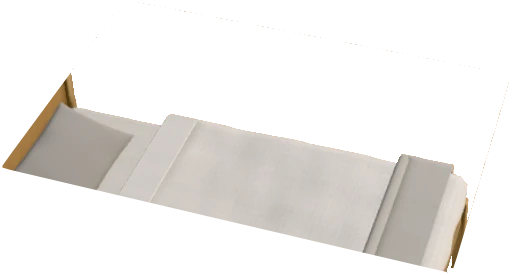
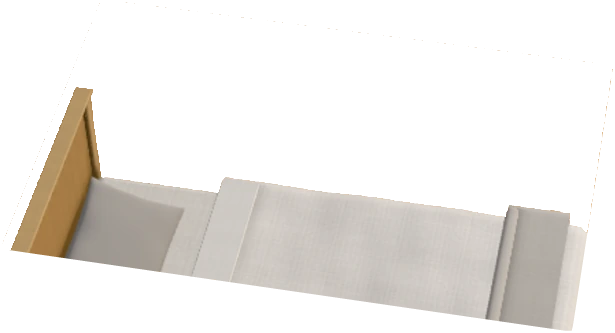
Hero demo: natural lens, sharp 2400px renders, a lived-in room
The last version used a wide lens to fit three walls in, which warped the room, and the layers were rendered
without antialiasing and recompressed at quality 80, so edges looked jagged and soft. Now:
- The studio's own 36° lens from just right of centre, with the door, back and window walls kept up for the
  render, so the room reads like a real photo of a model room and fits the stage with room for the side cards.
- Every layer rendered at 4000px and downsampled to 2400px (supersampled edges), saved as WebP at q90/92, and
  served by next/image at quality 90 (added to images.qualities).
- The template's own touches stay in (plant and folded towels on the dresser, the desk riser), plus the mini
  fridge from 'Who brings what'. Bean bag, rug, tags, dimensions and cursors re-placed for the new camera.

Claude-Session: https://claude.ai/code/session_01S6YCHmBKmE3hFcSRhUhYcX

Changed region(s): [[0.0, 0.2618, 0.9688, 1.0]]

diff --git a/components/home/Hero.module.css b/components/home/Hero.module.css
@@ -240,9 +240,9 @@
 .ly { position: absolute; pointer-events: none; user-select: none; }
 .ly img { object-fit: fill; }
 .lyRoom { inset: 0; }
-.lyRug { left: 38.450%; top: 53.173%; width: 19.550%; height: 18.611%; animation: sprRug 12s linear infinite; }
-.lyOcc { left: 33.450%; top: 51.372%; width: 25.600%; height: 23.585%; }
-.lyBean { left: 49.850%; top: 40.995%; width: 11.450%; height: 14.837%; animation: sprBean 12s linear infinite; }
+.lyRug { left: 38.500%; top: 51.357%; width: 19.417%; height: 18.929%; animation: sprRug 12s linear infinite; }
+.lyOcc { left: 33.375%; top: 49.643%; width: 25.625%; height: 23.786%; }
+.lyBean { left: 48.208%; top: 36.214%; width: 12.625%; height: 16.143%; animation: sprBean 12s linear infinite; }
 .dims { position: absolute; inset: 0; width: 100%; height: 100%; overflow: visible; pointer-events: none; }
 .dims line { stroke: var(--ds-blue); stroke-linecap: round; vector-effect: non-scaling-stroke; }
 .dl { stroke-width: 1.75; stroke-dasharray: 1; stroke-dashoffset: 0; }
@@ -303,8 +303,8 @@
   box-shadow: 0.25em 0.25em 0 var(--ds-ink);
   opacity: 0;
 }
-.curC { transform: translate(56.08%, 46.3%); animation: curC 12s linear infinite; }
-.curJ { transform: translate(48.59%, 57.6%); animation: curJ 12s linear infinite; }
+.curC { transform: translate(55.3%, 43.3%); animation: curC 12s linear infinite; }
+.curJ { transform: translate(48.52%, 58%); animation: curJ 12s linear infinite; }
 .curC .cname { background: var(--ds-magenta); }
 .curJ .cname { background: var(--ds-blue); }
 .curC .arrow { animation: pressC 12s infinite; }
@@ -383,8 +383,8 @@
 .heroCap .ft { color: var(--ds-ink); font-weight: 750; }
 
 /* ---------- The 12 s loop. Every element runs on the same clock. ---------- */
-@keyframes curC{0%{transform:translate(64%,76%);animation-timing-function:cubic-bezier(.65,0,.35,1)}4.167%{transform:translate(64%,76%);animation-timing-function:cubic-bezier(.65,0,.35,1)}10.417%{transform:translate(50.88%,55.92%)}11.25%{transform:translate(50.88%,55.92%);animation-timing-function:cubic-bezier(.45,0,.2,1)}25%{transform:translate(56.08%,46.3%)}27.5%{transform:translate(56.08%,46.3%);animation-timing-function:cubic-bezier(.65,0,.35,1)}35.833%{transform:translate(74%,45%);animation-timing-function:cubic-bezier(.65,0,.35,1)}45%{transform:translate(74.8%,47%);animation-timing-function:cubic-bezier(.65,0,.35,1)}54.167%{transform:translate(73.6%,46%)}64.167%{transform:translate(73.6%,46%);animation-timing-function:cubic-bezier(.65,0,.35,1)}70.833%{transform:translate(42.5%,71.5%)}75%{transform:translate(42.5%,71.5%);animation-timing-function:cubic-bezier(.65,0,.35,1)}84.167%{transform:translate(44%,74%)}90.833%{transform:translate(44%,74%);animation-timing-function:cubic-bezier(.65,0,.35,1)}100%{transform:translate(64%,76%)}}
-@keyframes curJ{0%{transform:translate(27%,77%);animation-timing-function:cubic-bezier(.65,0,.35,1)}11.667%{transform:translate(28.8%,75%);animation-timing-function:cubic-bezier(.65,0,.35,1)}23.333%{transform:translate(27.6%,78%)}28.333%{transform:translate(27.6%,78%);animation-timing-function:cubic-bezier(.65,0,.35,1)}35.833%{transform:translate(45.01%,57.3%)}36.667%{transform:translate(45.01%,57.3%);animation-timing-function:cubic-bezier(.45,0,.2,1)}53.333%{transform:translate(48.59%,57.6%)}62.5%{transform:translate(48.59%,57.6%);animation-timing-function:cubic-bezier(.65,0,.35,1)}68.333%{transform:translate(43.5%,33.5%)}72.5%{transform:translate(43.5%,33.5%);animation-timing-function:cubic-bezier(.65,0,.35,1)}79.167%{transform:translate(45%,35.5%)}90.833%{transform:translate(45%,35.5%);animation-timing-function:cubic-bezier(.65,0,.35,1)}100%{transform:translate(27%,77%)}}
+@keyframes curC{0%{transform:translate(66%,74%);animation-timing-function:cubic-bezier(.65,0,.35,1)}4.167%{transform:translate(66%,74%);animation-timing-function:cubic-bezier(.65,0,.35,1)}10.417%{transform:translate(50.77%,55.52%)}11.25%{transform:translate(50.77%,55.52%);animation-timing-function:cubic-bezier(.45,0,.2,1)}25%{transform:translate(55.3%,43.3%)}27.5%{transform:translate(55.3%,43.3%);animation-timing-function:cubic-bezier(.65,0,.35,1)}35.833%{transform:translate(74%,42%);animation-timing-function:cubic-bezier(.65,0,.35,1)}45%{transform:translate(74.8%,44%);animation-timing-function:cubic-bezier(.65,0,.35,1)}54.167%{transform:translate(73.8%,43%)}64.167%{transform:translate(73.8%,43%);animation-timing-function:cubic-bezier(.65,0,.35,1)}70.833%{transform:translate(54%,68.5%)}75%{transform:translate(54%,68.5%);animation-timing-function:cubic-bezier(.65,0,.35,1)}84.167%{transform:translate(55.5%,71%)}90.833%{transform:translate(55.5%,71%);animation-timing-function:cubic-bezier(.65,0,.35,1)}100%{transform:translate(66%,74%)}}
+@keyframes curJ{0%{transform:translate(33%,80%);animation-timing-function:cubic-bezier(.65,0,.35,1)}11.667%{transform:translate(34.5%,78.5%);animation-timing-function:cubic-bezier(.65,0,.35,1)}23.333%{transform:translate(33.5%,81%)}28.333%{transform:translate(33.5%,81%);animation-timing-function:cubic-bezier(.65,0,.35,1)}35.833%{transform:translate(44.77%,58.22%)}36.667%{transform:translate(44.77%,58.22%);animation-timing-function:cubic-bezier(.45,0,.2,1)}53.333%{transform:translate(48.52%,58%)}62.5%{transform:translate(48.52%,58%);animation-timing-function:cubic-bezier(.65,0,.35,1)}68.333%{transform:translate(31.5%,18%)}72.5%{transform:translate(31.5%,18%);animation-timing-function:cubic-bezier(.65,0,.35,1)}79.167%{transform:translate(32.7%,20%)}90.833%{transform:translate(32.7%,20%);animation-timing-function:cubic-bezier(.65,0,.35,1)}100%{transform:translate(33%,80%)}}
 @keyframes pressC{0%,10.417%{transform:none}11.25%,25%{transform:scale(.84)}26.25%,70.833%{transform:none}71.667%{transform:scale(.8)}73.333%,100%{transform:none}}
 @keyframes pressJ{0%,35.833%{transform:none}36.667%,53.333%{transform:scale(.84)}54.583%,68.333%{transform:none}69.167%{transform:scale(.8)}70.833%,100%{transform:none}}
 @keyframes talkC{0%,2.5%{opacity:0}4.583%,21.667%{opacity:1}23.333%,55%{opacity:0}57.083%,64.167%{opacity:1}65.833%,100%{opacity:0}}
@@ -393,8 +393,8 @@
 @keyframes capJ1{0%,24.167%{opacity:0;transform:translateY(.4em)}26.25%,34.167%{opacity:1;transform:none}35.833%,100%{opacity:0;transform:translateY(-.2em)}}
 @keyframes capC2{0%,55%{opacity:0;transform:translateY(.4em)}57.083%,64.167%{opacity:1;transform:none}65.833%,100%{opacity:0;transform:translateY(-.2em)}}
 @keyframes capJ2{0%,75%{opacity:0;transform:translateY(.4em)}77.083%,87.5%{opacity:1;transform:none}89.167%,100%{opacity:0;transform:translateY(-.2em)}}
-@keyframes sprBean{0%{transform:translate(-45.42%,64.88%) scale(1.06);opacity:1}11.25%{transform:translate(-45.42%,64.88%) scale(1.06);animation-timing-function:cubic-bezier(.45,0,.2,1)}25%{transform:none}93.333%{transform:none;opacity:1}95.833%{transform:none;opacity:0}96.25%{transform:translate(-45.42%,64.88%) scale(1.06);opacity:0}100%{transform:translate(-45.42%,64.88%) scale(1.06);opacity:1}}
-@keyframes sprRug{0%{transform:translate(-18.3%,-1.65%) scale(.98);opacity:1;filter:drop-shadow(0 0 0 rgba(36,73,255,0))}35.833%{filter:drop-shadow(0 0 0 rgba(36,73,255,0))}36.667%{transform:translate(-18.3%,-1.65%) scale(.98);filter:drop-shadow(0 0 4px rgba(36,73,255,.95));animation-timing-function:cubic-bezier(.45,0,.2,1)}53.333%{transform:none;filter:drop-shadow(0 0 4px rgba(36,73,255,.95))}55.833%{filter:drop-shadow(0 0 0 rgba(36,73,255,0))}93.333%{transform:none;opacity:1}95.833%{transform:none;opacity:0}96.25%{transform:translate(-18.3%,-1.65%) scale(.98);opacity:0}100%{transform:translate(-18.3%,-1.65%) scale(.98);opacity:1;filter:drop-shadow(0 0 0 rgba(36,73,255,0))}}
+@keyframes sprBean{0%{transform:translate(-35.87%,75.71%) scale(1.07);opacity:1}11.25%{transform:translate(-35.87%,75.71%) scale(1.07);animation-timing-function:cubic-bezier(.45,0,.2,1)}25%{transform:none}93.333%{transform:none;opacity:1}95.833%{transform:none;opacity:0}96.25%{transform:translate(-35.87%,75.71%) scale(1.07);opacity:0}100%{transform:translate(-35.87%,75.71%) scale(1.07);opacity:1}}
+@keyframes sprRug{0%{transform:translate(-19.33%,1.17%) scale(.98);opacity:1;filter:drop-shadow(0 0 0 rgba(36,73,255,0))}35.833%{filter:drop-shadow(0 0 0 rgba(36,73,255,0))}36.667%{transform:translate(-19.33%,1.17%) scale(.98);filter:drop-shadow(0 0 4px rgba(36,73,255,.95));animation-timing-function:cubic-bezier(.45,0,.2,1)}53.333%{transform:none;filter:drop-shadow(0 0 4px rgba(36,73,255,.95))}55.833%{filter:drop-shadow(0 0 0 rgba(36,73,255,0))}93.333%{transform:none;opacity:1}95.833%{transform:none;opacity:0}96.25%{transform:translate(-19.33%,1.17%) scale(.98);opacity:0}100%{transform:translate(-19.33%,1.17%) scale(.98);opacity:1;filter:drop-shadow(0 0 0 rgba(36,73,255,0))}}
 @keyframes popBean{0%,25.417%{opacity:0;transform:scale(.6);animation-timing-function:cubic-bezier(.34,1.56,.64,1)}27.917%,91.667%{opacity:1;transform:none}95%,100%{opacity:0;transform:scale(.9)}}
 @keyframes popRug{0%,54.167%{opacity:0;transform:scale(.6);animation-timing-function:cubic-bezier(.34,1.56,.64,1)}56.667%,91.667%{opacity:1;transform:none}95%,100%{opacity:0;transform:scale(.9)}}
 @keyframes popBedA{0%,69.167%{opacity:0;transform:scale(.6);animation-timing-function:cubic-bezier(.34,1.56,.64,1)}71.667%,91.667%{opacity:1;transform:none}95%,100%{opacity:0;transform:scale(.9)}}

diff --git a/components/home/HomeHero.tsx b/components/home/HomeHero.tsx
@@ -161,7 +161,7 @@ function Stage({ dims }: { dims: React.ReactNode }) {
         sizes={lcp ? "(max-width: 900px) 100vw, 900px" : "(max-width: 900px) 34vw, 300px"}
         loading="eager"
         fetchPriority={lcp ? "high" : undefined}
-        quality={80}
+        quality={90}
       />
     </span>
   );
@@ -207,34 +207,34 @@ function Stage({ dims }: { dims: React.ReactNode }) {
         <span className={css.share}>Share room</span>
       </div>
       <div className={css.view}>
-        {layer(css.lyRoom, "/redesign/hero-room-v6.webp", "A dorm double in 3D: two beds, two desks, dressers, a full-length mirror and string lights", true)}
+        {layer(css.lyRoom, "/redesign/hero-room-v6.webp", "A dorm double in 3D: two beds, two desks, dressers, a full-length mirror, a mini fridge and string lights", true)}
         {layer(css.lyRug, "/redesign/hero-rug-v3.webp", "An orange rug with a light border")}
         {layer(css.lyOcc, "/redesign/hero-occluder-v6.webp", "The near bed and desk chair, drawn over the rug")}
         {layer(css.lyBean, "/redesign/hero-bean-v3.webp", "A magenta bean bag chair")}
         <svg className={css.dims} viewBox="0 0 1000 583.333" preserveAspectRatio="xMidYMid meet">
-          <line className={`${css.dl} ${css.dlF}`} pathLength={1} x1="434.29" y1="303.84" x2="581.94" y2="332.23" />
-          <line className={`${css.dl} ${css.dlR}`} pathLength={1} x1="417.82" y1="308.87" x2="372.11" y2="376.19" />
-          <line className={`${css.tk} ${css.tkF}`} x1="436.62" y1="300.26" x2="431.92" y2="307.47" />
-          <line className={`${css.tk} ${css.tkF}`} x1="583.22" y1="328.21" x2="580.64" y2="336.32" />
-          <line className={`${css.tk} ${css.tkR}`} x1="412.01" y1="307.74" x2="423.65" y2="310.02" />
-          <line className={`${css.tk} ${css.tkR}`} x1="365.61" y1="374.71" x2="378.66" y2="377.68" />
+          <line className={`${css.dl} ${css.dlF}`} pathLength={1} x1="418.25" y1="291.13" x2="580.24" y2="311.9" />
+          <line className={`${css.dl} ${css.dlR}`} pathLength={1} x1="401.62" y1="298.8" x2="370.91" y2="381.55" />
+          <line className={`${css.tk} ${css.tkF}`} x1="419.89" y1="286.51" x2="416.59" y2="295.8" />
+          <line className={`${css.tk} ${css.tkF}`} x1="581.04" y1="307.06" x2="579.43" y2="316.8" />
+          <line className={`${css.tk} ${css.tkR}`} x1="394.99" y1="297.94" x2="408.26" y2="299.66" />
+          <line className={`${css.tk} ${css.tkR}`} x1="363.7" y1="380.52" x2="378.15" y2="382.58" />
         </svg>
-        <span className={css.at} style={{ left: "51.2%", top: "51.2%" }}>
+        <span className={css.at} style={{ left: "50.4%", top: "47.8%" }}>
           <span className={`${css.dlbl} ${css.popDf}`}>6′0″</span>
         </span>
-        <span className={css.at} style={{ left: "36.6%", top: "57.4%" }}>
+        <span className={css.at} style={{ left: "34.7%", top: "57%" }}>
           <span className={`${css.dlbl} ${css.popDr}`}>4′0″</span>
         </span>
-        <span className={css.at} style={{ left: "40.5%", top: "37.5%" }}>
+        <span className={css.at} style={{ left: "40.5%", top: "39%" }}>
           <Tag who="j" className={css.popBedA} />
         </span>
-        <span className={css.at} style={{ left: "40%", top: "68%" }}>
+        <span className={css.at} style={{ left: "41.5%", top: "70%" }}>
           <Tag who="c" className={css.popBedB} />
         </span>
-        <span className={css.at} style={{ left: "48%", top: "57%" }}>
+        <span className={css.at} style={{ left: "52.5%", top: "55.5%" }}>
           <Tag who="s" className={css.popRug} />
         </span>
-        <span className={css.at} style={{ left: "55.5%", top: "37.5%" }}>
+        <span className={css.at} style={{ left: "55.3%", top: "33%" }}>
           <Tag who="c" className={css.popBean} />
         </span>
         <div className={css.toastAt}>

diff --git a/next.config.ts b/next.config.ts
@@ -175,7 +175,7 @@ export default function nextConfig(phase: string): NextConfig {
     // Redesign renders ship as JPEG masters; next/image serves AVIF/WebP.
     images: {
       formats: ["image/avif", "image/webp"],
-      qualities: [70, 75, 80],
+      qualities: [70, 75, 80, 90],
     },
     // Hall pages retired when UIUC and UMass were split from hall-style groups into their real
     // halls (2026-11-14): each old group page goes to its school's page, which lists the halls.
